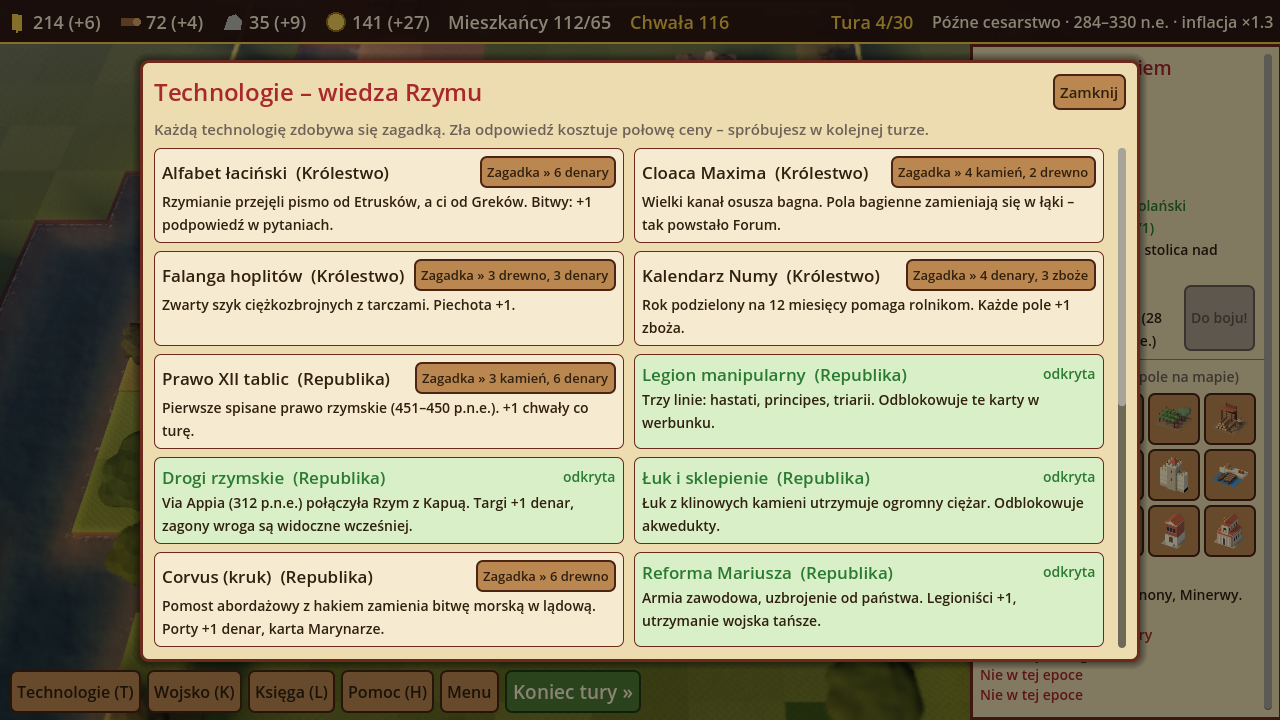
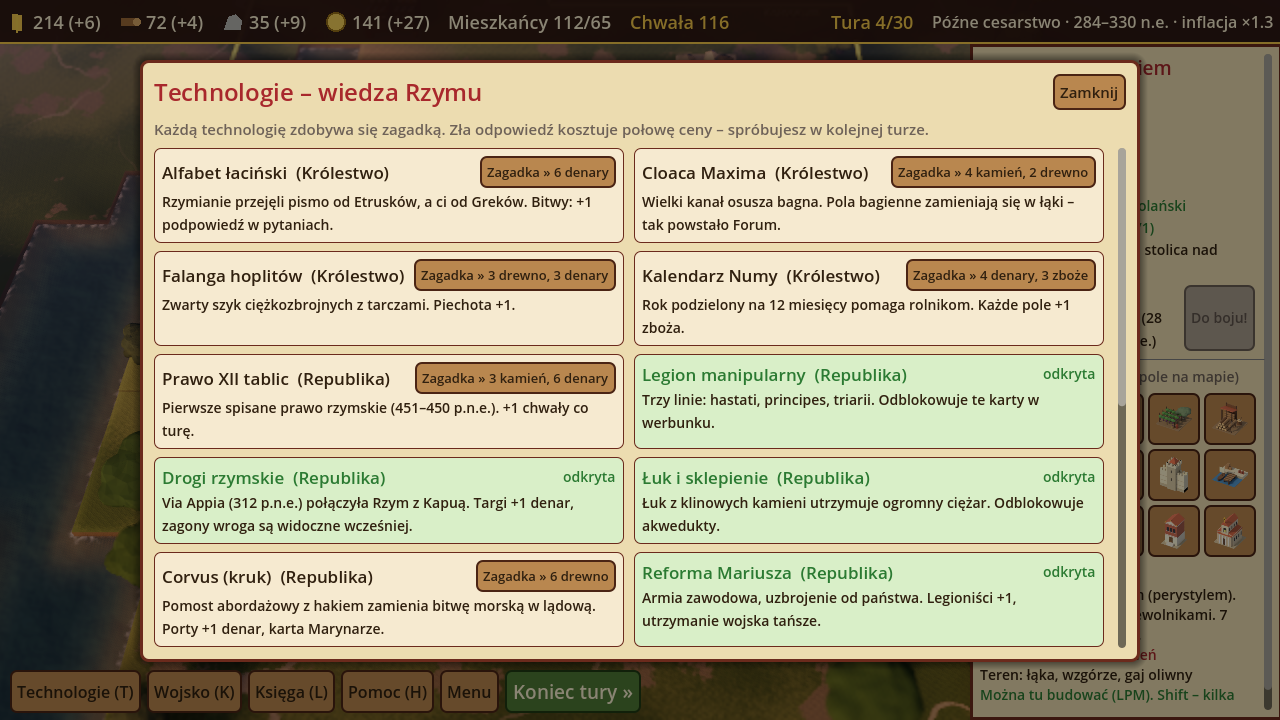
Roman Empire 3D: teren z tekstury zamiast szachownicy, siatka tylko w trybie budowy
- shader terenu: trawa w dwóch odcieniach, rzadkie plamy ziemi i wydeptane
  ścieżki mieszane szumem; typy terenu wtopione miękko (kolor i udział trawy
  uśredniane w narożnikach pól, granica szarpana szumem)
- sucha, płowa trawa w późnym cesarstwie
- półprzezroczysta siatka pól tylko w trybie budowy, z podświetleniem pól,
  na których można postawić wybrany budynek
- nowe zrzuty ekranu

Claude-Session: https://claude.ai/code/session_01HT9RCQ9Ckd1riJVCiqzjVo

diff --git a/rzym3d/README.md b/rzym3d/README.md
@@ -35,6 +35,19 @@ plansza wygląda jak prawdziwa makieta. W bitwie pas ostrości obejmuje oba szyk
   (rozmycie górnego i dolnego pasa), a ekspozycja i gęstość mgły jest dobrana tak, żeby scena
   wyglądała podobnie jak w Forward+.
 
+## Teren
+
+Plansza nie jest już szachownicą kolorowych pól. Wierzch terenu rysuje shader (`_material_terenu()` w `gra.gd`):
+jedna tekstura trawy w dwóch odcieniach z drobnymi „źdźbłami”, rzadkie plamy ziemi i wydeptane ścieżki,
+mieszane szumem (tekstury szumu generowane w grze, więc działa i w przeglądarce). Typy terenu – drogi, plaże,
+wzgórza, bagna, lasy, gaje oliwne – wtapiają się miękko: kolor i udział trawy liczone są w narożnikach pól jako
+średnia sąsiadów, a granicę dodatkowo szarpie szum. W późnym cesarstwie trawa jest bardziej sucha i płowa.
+
+**Siatka pól pojawia się tylko w trybie budowy** – jako półprzezroczysta nakładka, w której pola, na których
+można postawić wybrany budynek, świecą na zielono.
+
+![Tryb budowy](zrzuty/05_budowa.png)
+
 ## Drzewa
 
 Drzewa zostają low-poly, ale mają charakterystyczne sylwetki (`blender/generuj_modele.py`, sekcja „drzewa”):

diff --git a/rzym3d/AGENTS.md b/rzym3d/AGENTS.md
@@ -48,6 +48,9 @@ Układ: **1 pole mapy = 2 m** (Godot: 2 jednostki), model stoi na z=0, środek p
 
 ## Woda i teren
 
+- Wierzch lądu: shader `_material_terenu()`; w kolorze wierzchołków rgb = kolor typu terenu (`_kolor_terenu`),
+  a = udział trawy (`WAGA_TRAWY`), uśrednione w narożnikach (`_kolor_rogu`). Siatka budowy: `odswiez_siatke_budowy()`.
+
 - Pola `~` i `m` mają w `dane.py` wysokość stopy brzegu (-0.3); dno liczy `_dno()` z odległości od lądu, lustro wody
   to `POZIOM_WODY` (-0.18). Shader wody: `_material_wody()` (głębokość w `COLOR.r` wierzchołków powierzchni).
 
